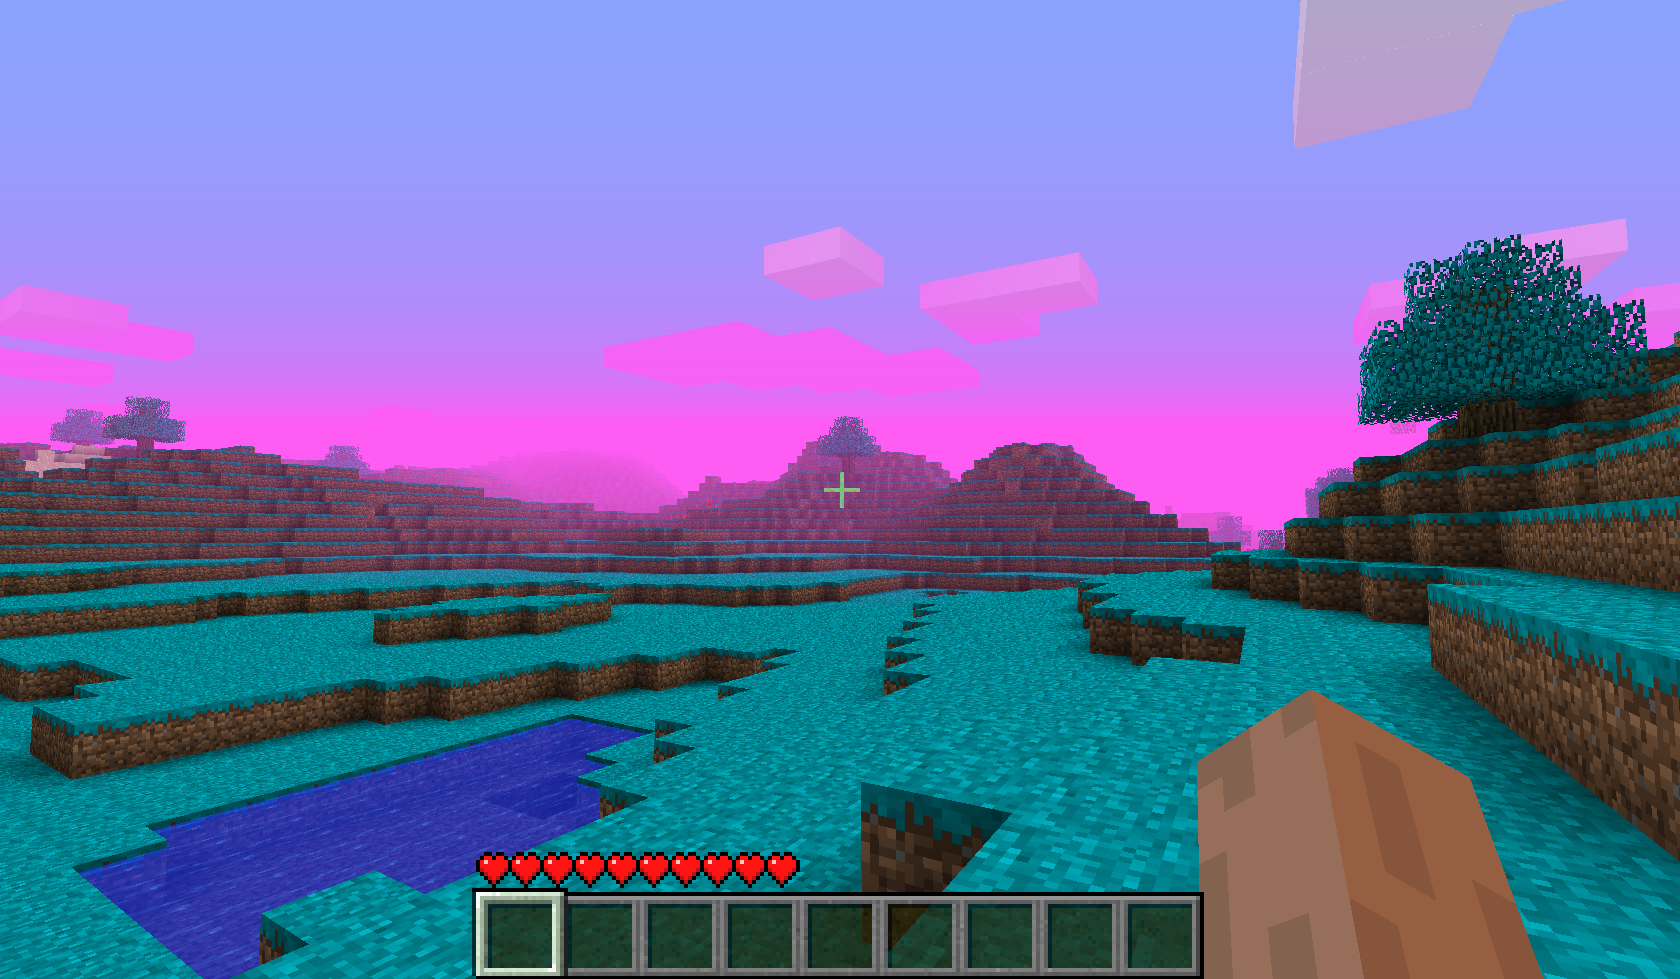
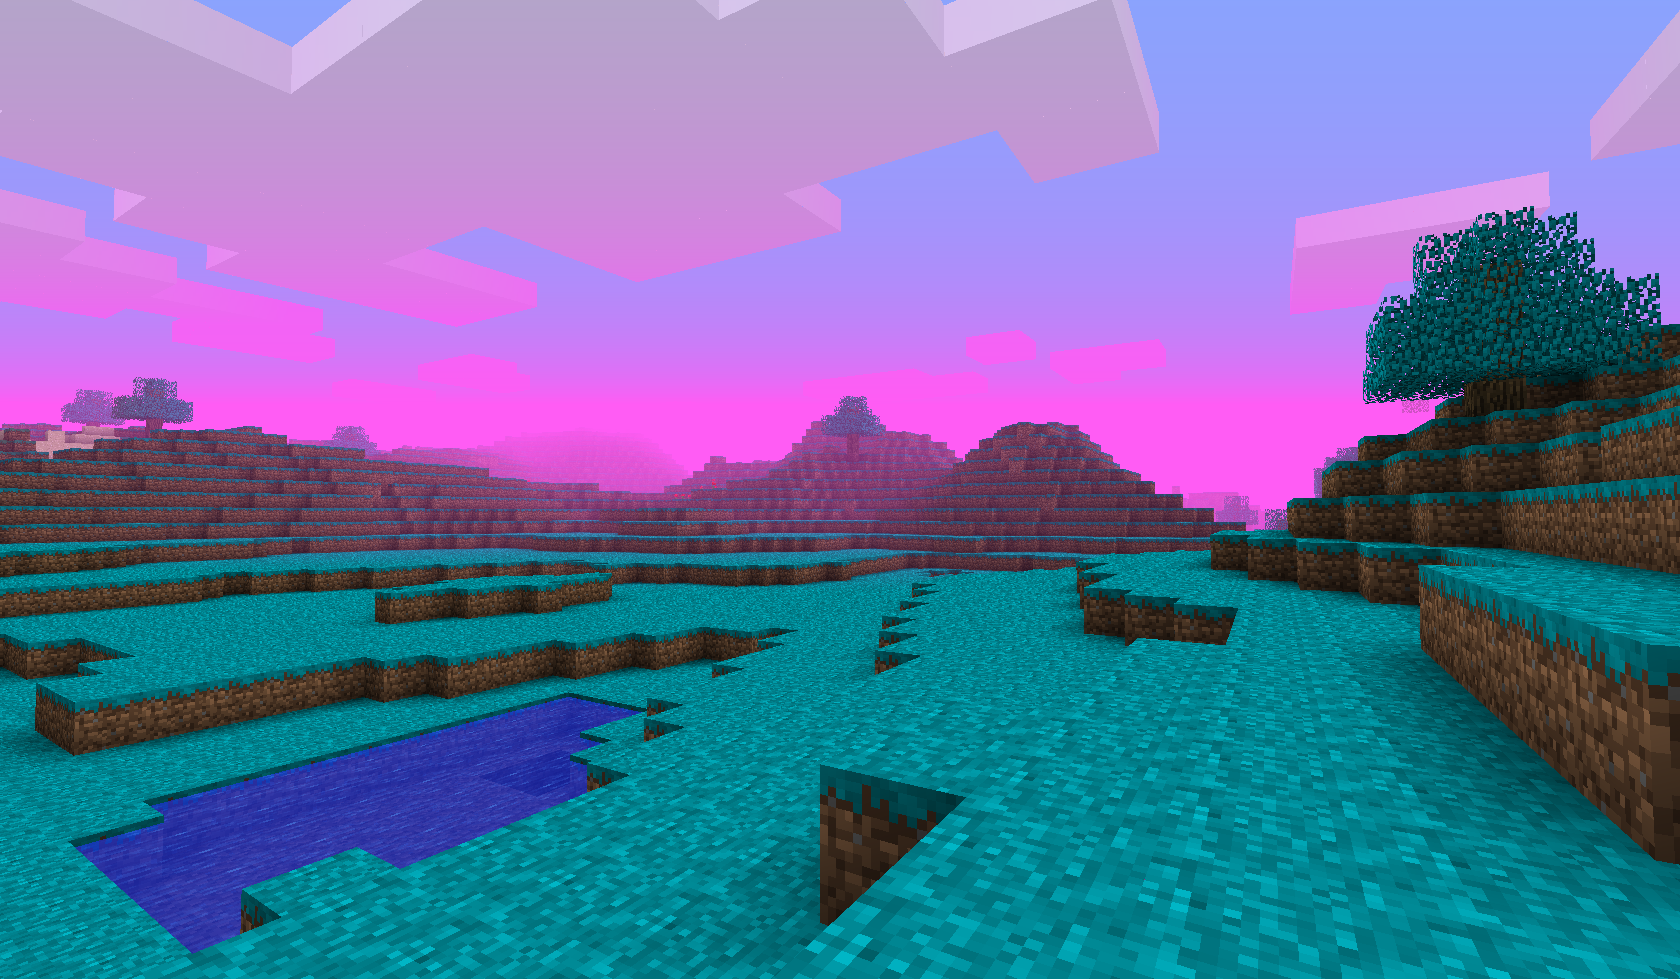
Remove hotbar from the biome showcase

diff --git a/content/StationAPI/Modding Tutorials/Adding a Biome.md b/content/StationAPI/Modding Tutorials/Adding a Biome.md
@@ -119,8 +119,8 @@ And these are our resulting biomes
 ![](test_biome_1.png)
 ![](test_biome_2.png)
 
-The entire code for both Biomes and Biome Providers is the following:
-
+&nbsp;  
+The entire code for both Biomes and Biome Providers:
 [src/main/java/net/danygames2014/examplemod/event/BiomeListener.java](https://github.com/DanyGames2014/nyawiki-example-mod/blob/master/src/main/java/net/danygames2014/examplemod/event/BiomeListener.java)
 ```java
 public class BiomeListener {  
